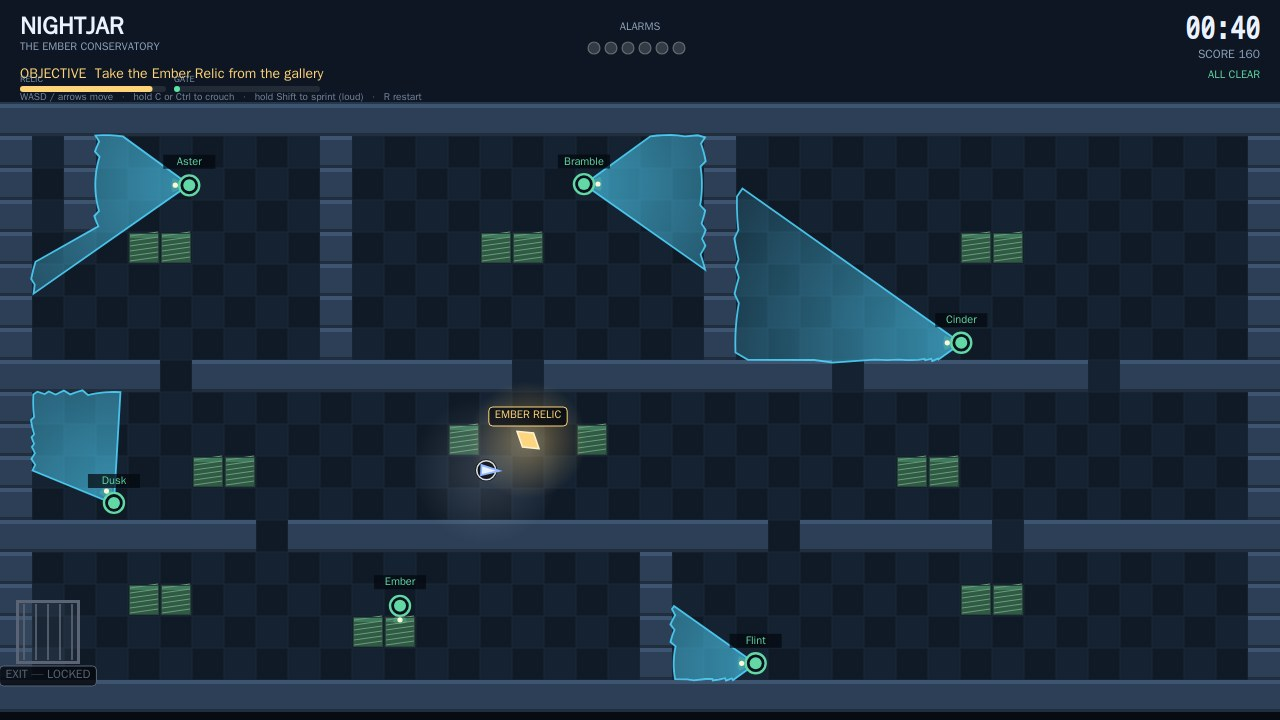
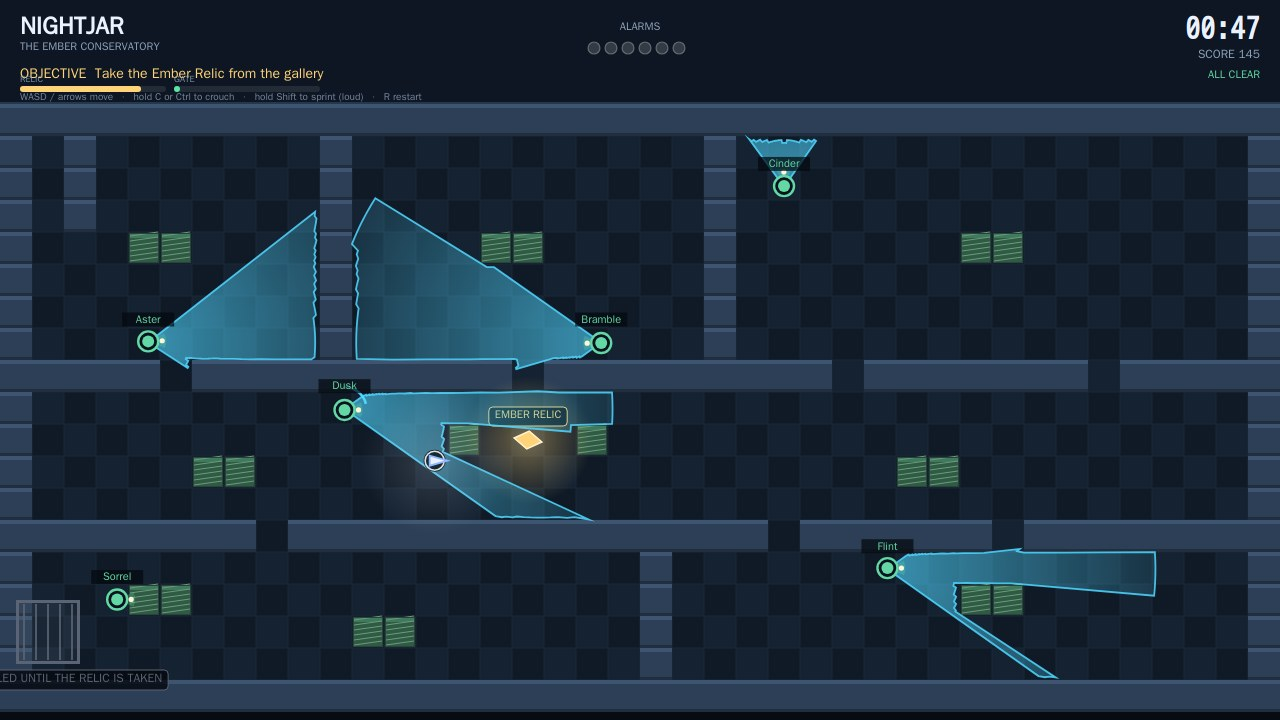
Nightjar: contested relic frame, carried relic, noise ring, cover shadow

diff --git a/game/src/shots.js b/game/src/shots.js
@@ -153,18 +153,20 @@ export function stageShot(name, world) {
   const level = world.level;
 
   if (name === 'relic') {
-    // Approach the plinth, but stop on the first frame where a guard's cone actually falls on the
-    // relic tile: the still has to show the objective contested, not a relic in an empty room. If
-    // the patrol never obliges within the time budget, the plain proximity frame stands.
+    // Approach the plinth, then hold still until a guard's cone actually falls across the relic
+    // tile. The still has to show the objective contested, not a relic in an empty room, and
+    // holding still is what keeps the shot from ending in a pickup.
+    play(world, (w) => Math.hypot(w.player.x - w.level.relic.x, w.player.y - w.level.relic.y) < 96, () => level.relic, 120);
+    world.player.crouched = true;
+    const held = { x: world.player.x, y: world.player.y };
     play(
       world,
       (w) => {
         const { col, row } = tileOf(w.level.relic.x, w.level.relic.y);
-        const near = Math.hypot(w.player.x - w.level.relic.x, w.player.y - w.level.relic.y) < 96;
-        return near && tileExposed(w, col, row);
+        return tileExposed(w, col, row);
       },
-      () => level.relic,
-      120,
+      () => held,
+      8,
     );
     world.player.crouched = true;
     return { screen: 'play' };
